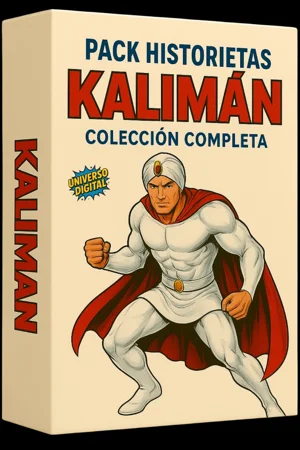
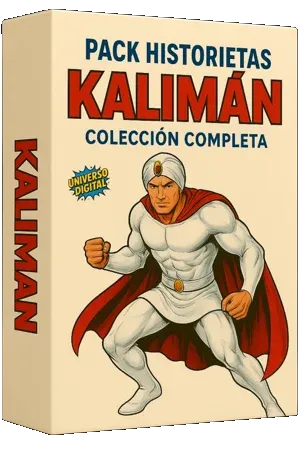
Make MAD and Kalimán box backgrounds transparent and remove '(Colección Completa)' from titles

Changed region(s): [[0.0, 0.0, 1.0, 1.0], [0.24, 0.4044, 0.3, 0.4356]]

diff --git a/index.html b/index.html
@@ -2425,7 +2425,7 @@
             </div>
             <div class="bonus-card__body">
               <span class="bonus-card__badge">GRATIS</span>
-              <h3 class="bonus-card__title">Revista MAD<br />(Colección Completa)</h3>
+              <h3 class="bonus-card__title">Revista MAD</h3>
               <p class="bonus-card__copy">Humor ácido, sátira y parodias de la legendaria e irreverente revista.</p>
             </div>
           </article>
@@ -2436,7 +2436,7 @@
             </div>
             <div class="bonus-card__body">
               <span class="bonus-card__badge">GRATIS</span>
-              <h3 class="bonus-card__title">Kalimán el Hombre Increíble<br />(Colección Completa)</h3>
+              <h3 class="bonus-card__title">Kalimán el Hombre Increíble</h3>
               <p class="bonus-card__copy">Aventuras y misterios del icónico superhéroe de la mente y la justicia.</p>
             </div>
           </article>
